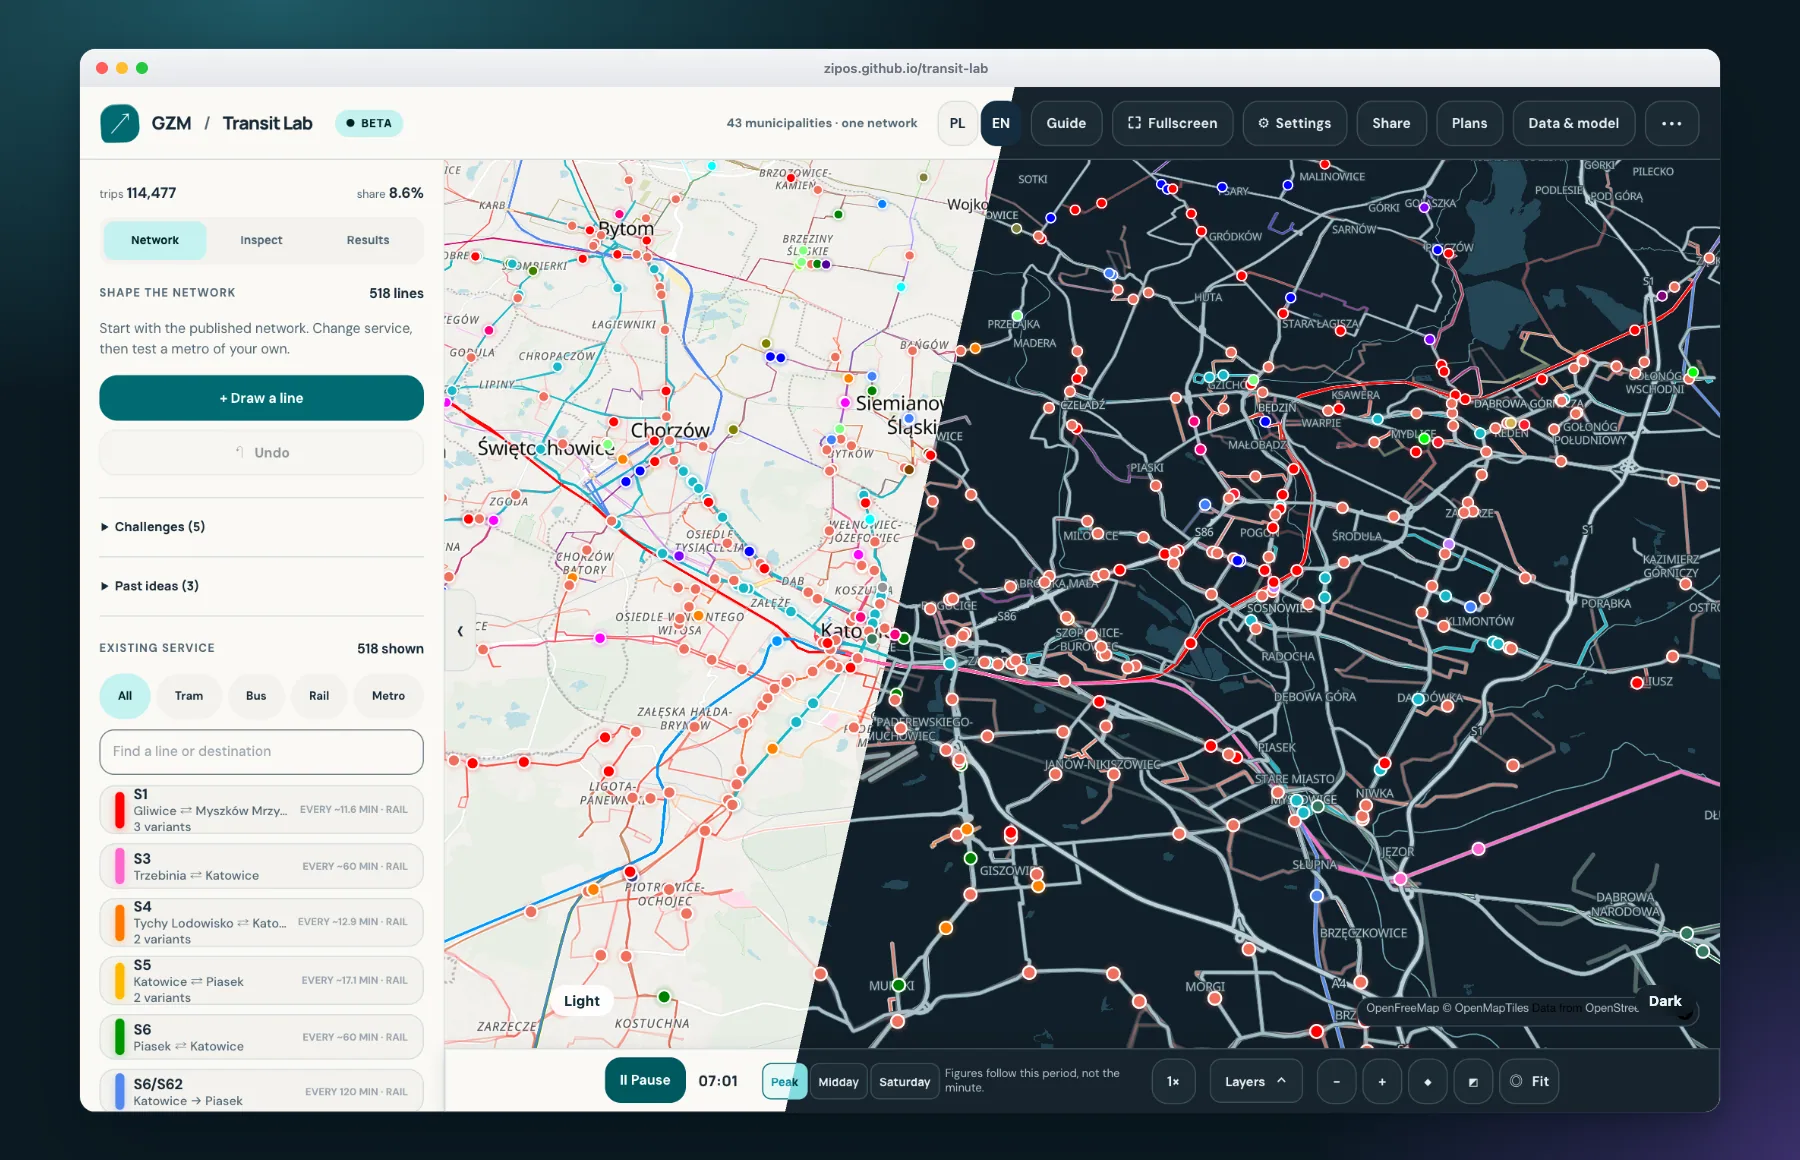
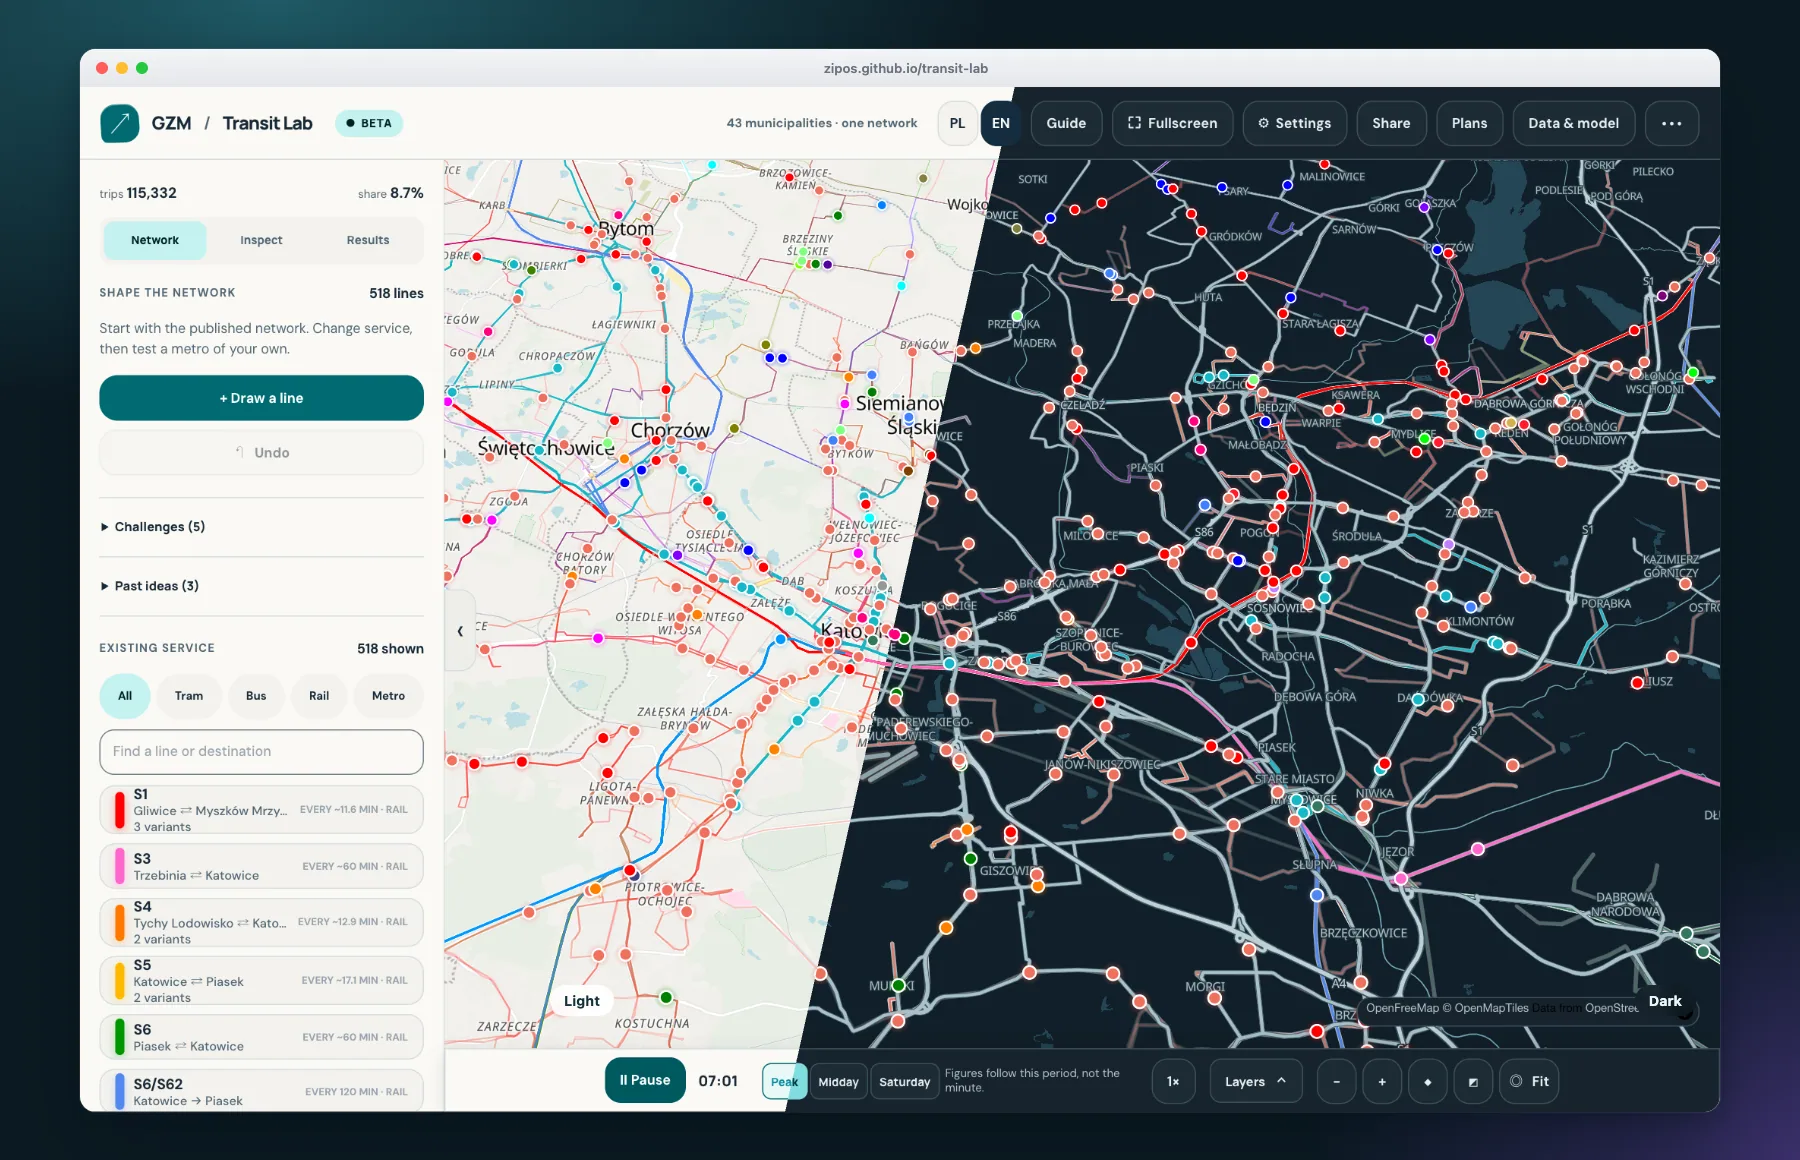
Refresh the README screenshots and note the crowding rule.
Re-shot every image after the headline-total fix, so the figures shown match
the shipped baseline (115,332 trips) and a T6 edit reads +1,849 against it.

diff --git a/README.md b/README.md
@@ -248,7 +248,7 @@ The boarding constant is fixed at **0**, so the transit share is **deliberately 
 
 <br>
 
-Assigned trips become daily flows on every segment. Capacity comes from each vehicle's seats plus standing room at 4 people per m²: a 12 m bus carries 68, a 30 m tram 180, a three-car rail unit 356, a six-car metro 996. Peak-hour flow is 10% of the day. Overloaded segments get a crowding penalty, and the assignment runs two more times, averaging the flows each time. The panel shows **Refining** while this happens and **Refined** when it finishes.
+Assigned trips become daily flows on every segment. Capacity comes from each vehicle's seats plus standing room at 4 people per m²: a 12 m bus carries 68, a 30 m tram 180, a three-car rail unit 356, a six-car metro 996. Peak-hour flow is 10% of the day. Overloaded segments get a crowding penalty, and the assignment runs two more times, averaging the flows each time. The panel shows **Refining** while this happens and **Refined** when it finishes. Crowding only reshapes the flows: the headline trips, wait and satisfaction come from the first, uncrowded pass, so they stay comparable with the baseline.
 
 </details>
 
